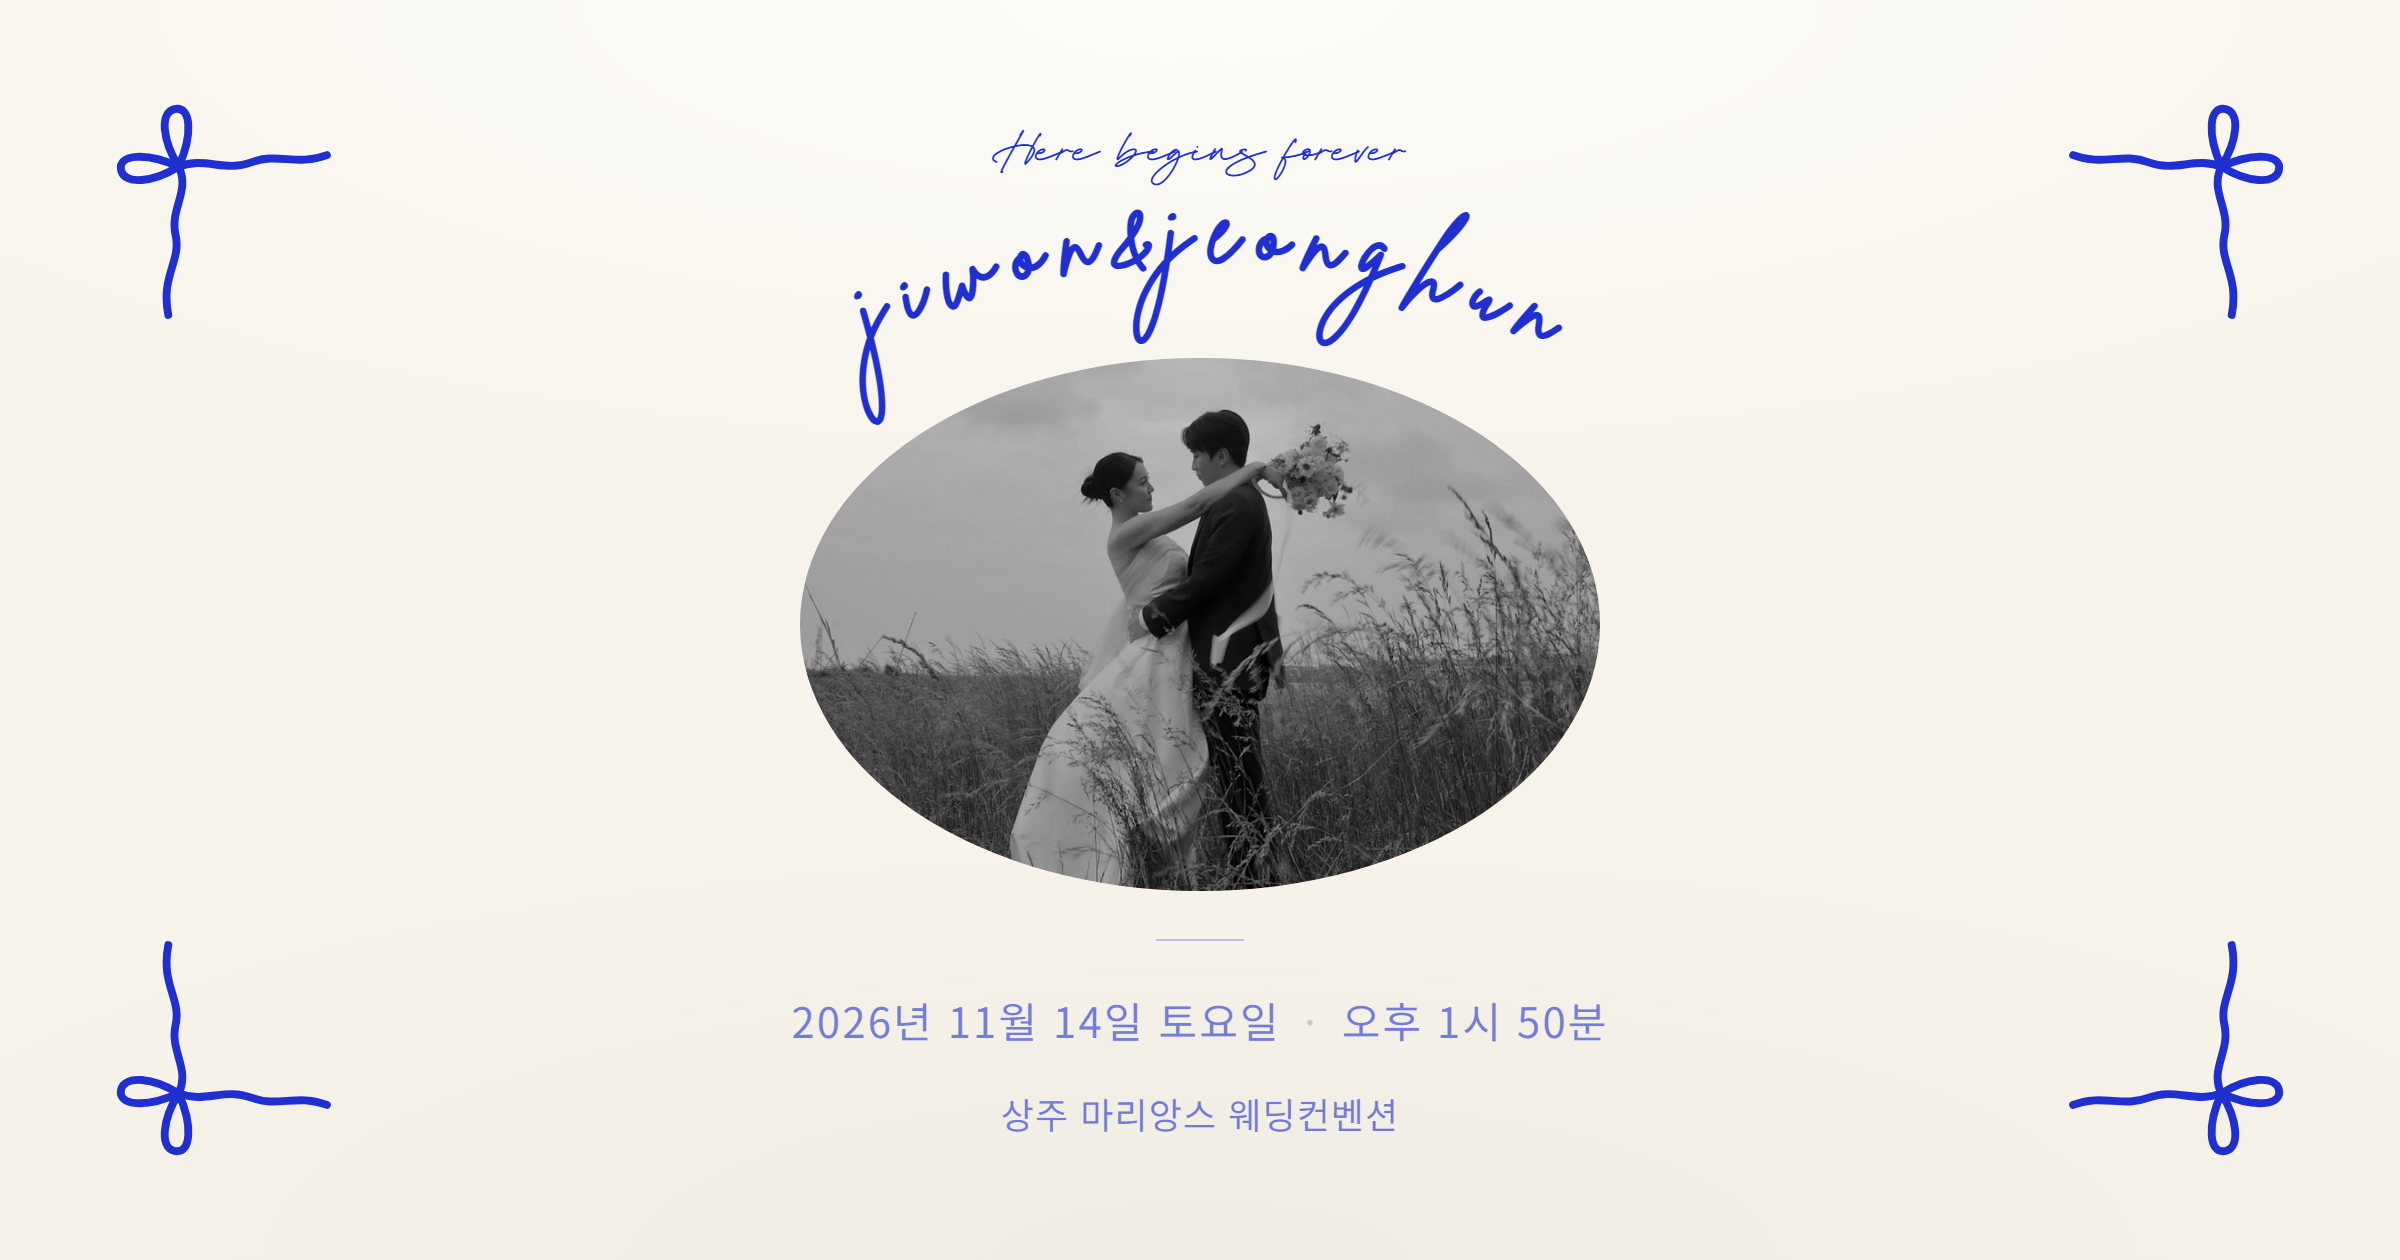
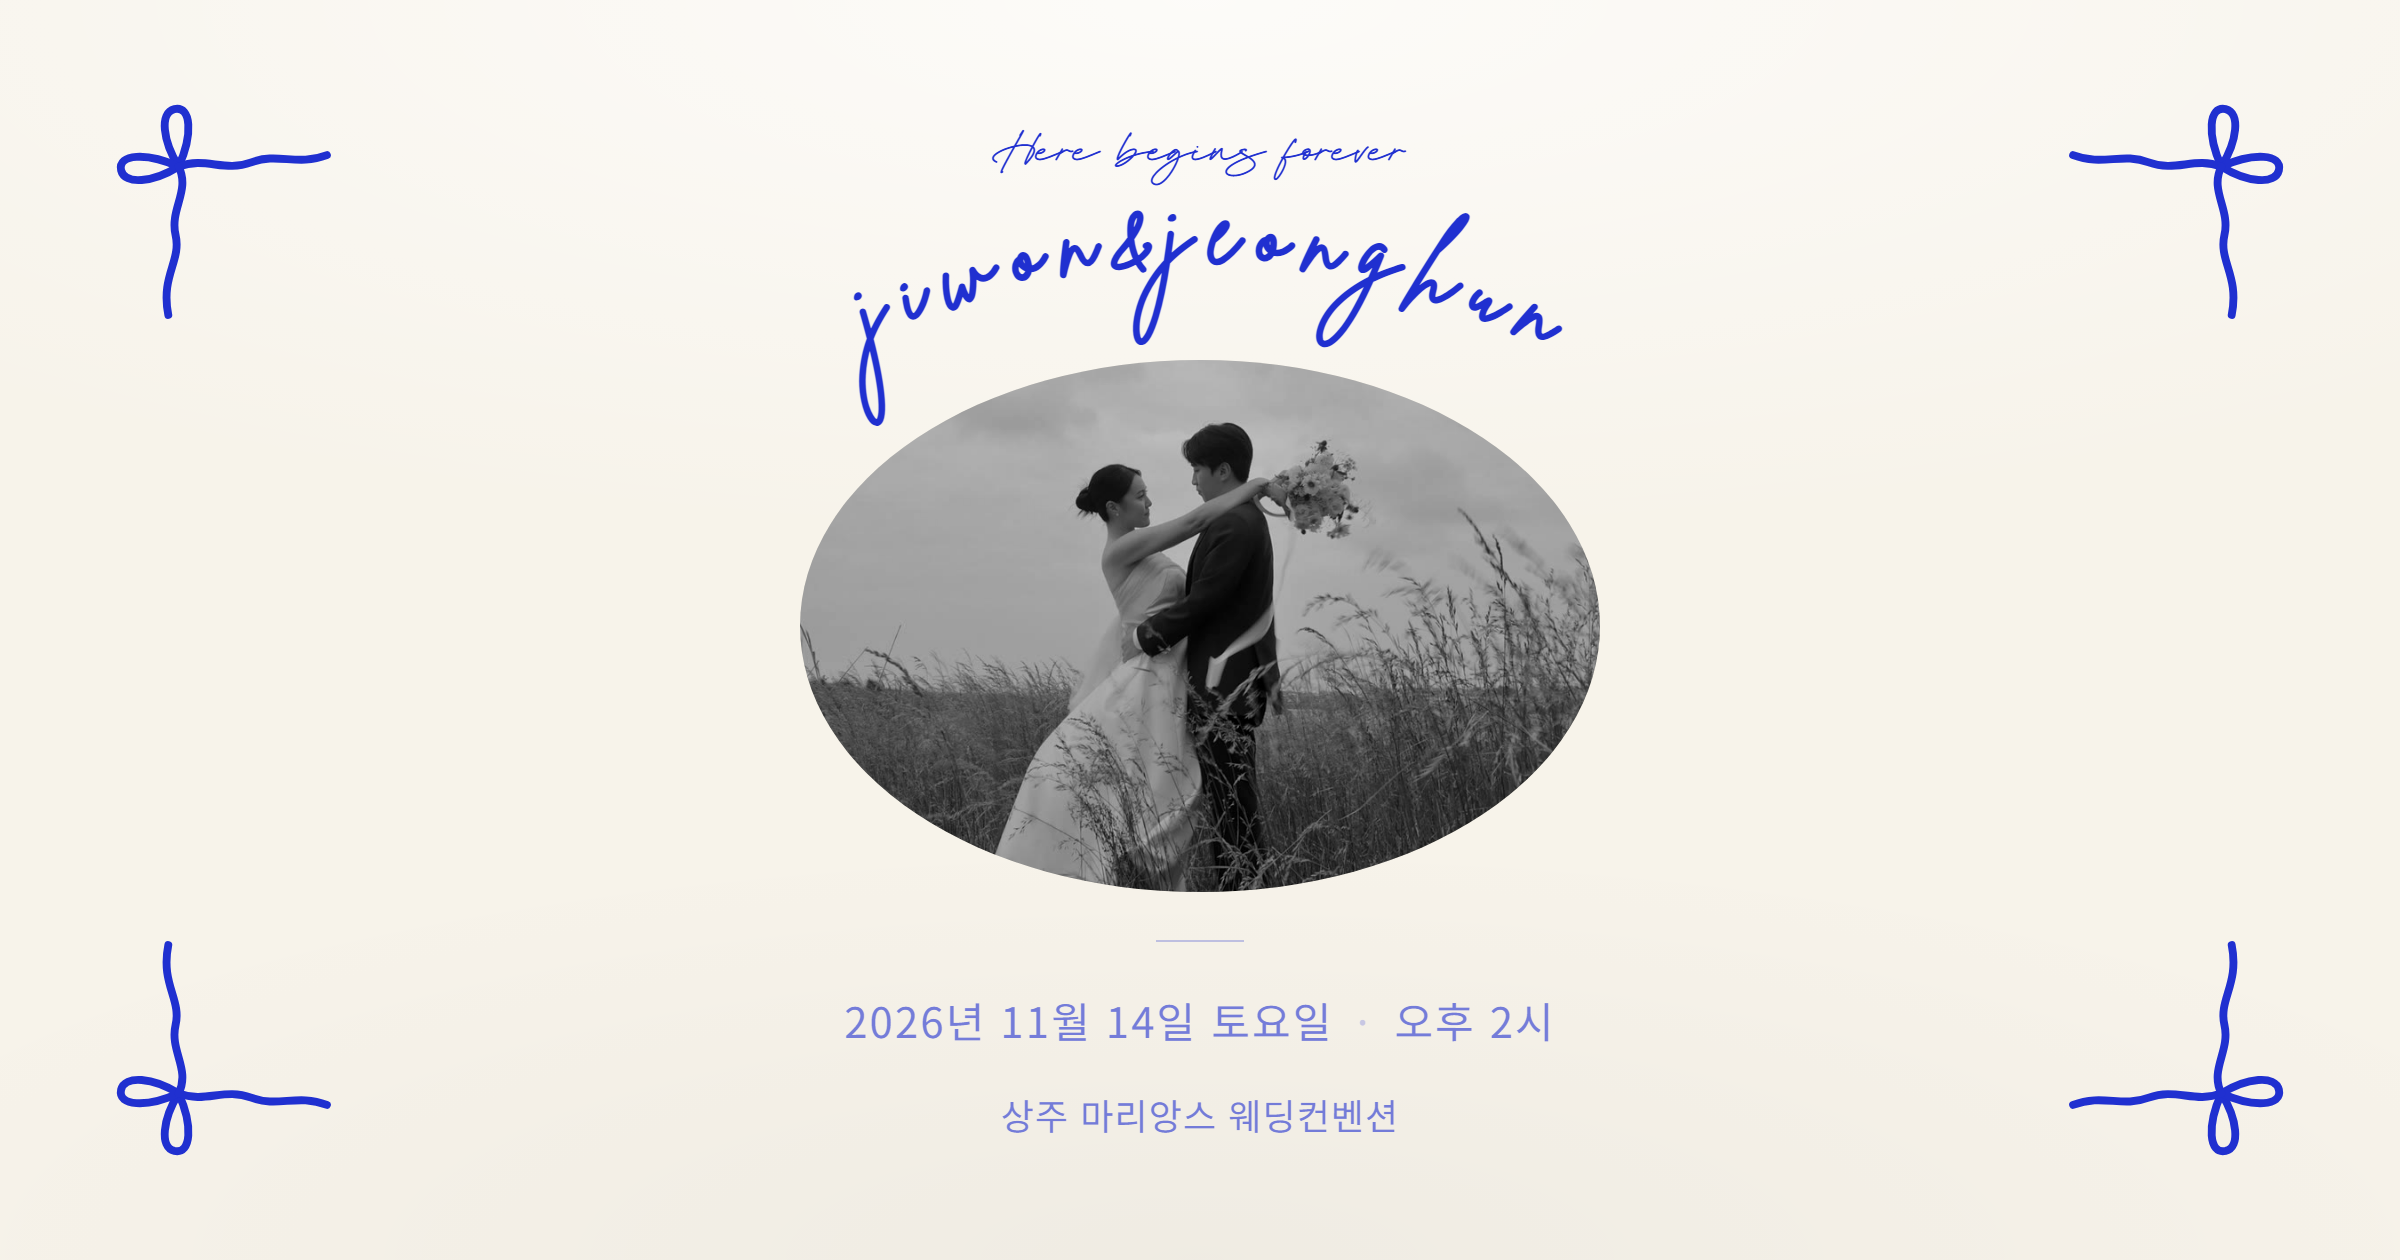
no message

diff --git a/index.html b/index.html
@@ -1227,8 +1227,8 @@ body{
       <div class="ct-side">
         <span class="ct-role">GROOM · 신랑측</span>
         <div class="ct-row"><span class="who">신랑</span><span class="nm">최정훈</span><a href="tel:01053268044">전화</a></div>
-        <div class="ct-row"><span class="who">아버지</span><span class="nm">김○○</span><a href="tel:01000000000">전화</a></div>
-        <div class="ct-row"><span class="who">어머니</span><span class="nm">이○○</span><a href="tel:01000000000">전화</a></div>
+        <div class="ct-row"><span class="who">아버지</span><span class="nm">최희식</span><a href="tel:01000000000">전화</a></div>
+        <div class="ct-row"><span class="who">어머니</span><span class="nm">김순자</span><a href="tel:01000000000">전화</a></div>
       </div>
       <div class="ct-side">
         <span class="ct-role">BRIDE · 신부측</span>

diff --git a/og-card.html b/og-card.html
@@ -160,7 +160,7 @@ body{
 
 <span class="rule"></span>
 
-<p class="date">2026년 11월 14일 토요일<span class="dot">·</span>오후 1시 50분</p>
+<p class="date">2026년 11월 14일 토요일<span class="dot">·</span>오후 2시</p>
 <p class="place">상주 마리앙스 웨딩컨벤션</p>
 
 </body>
